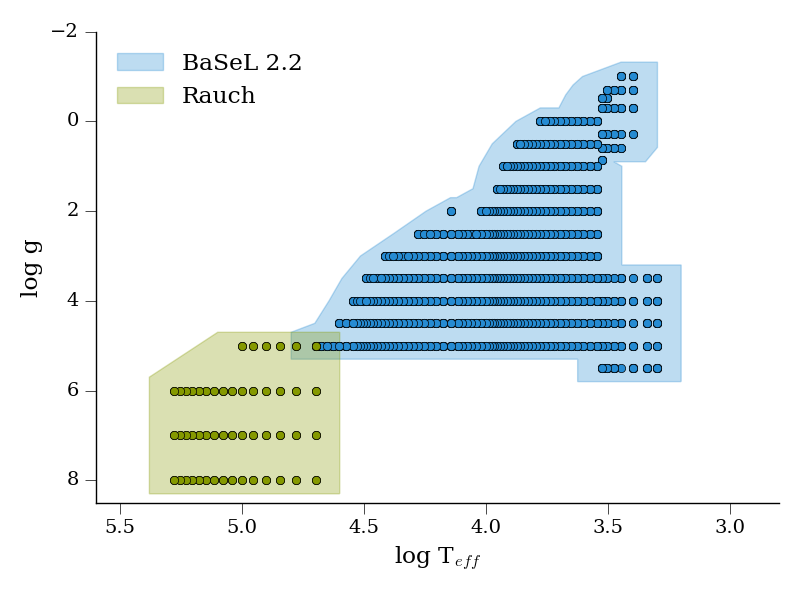
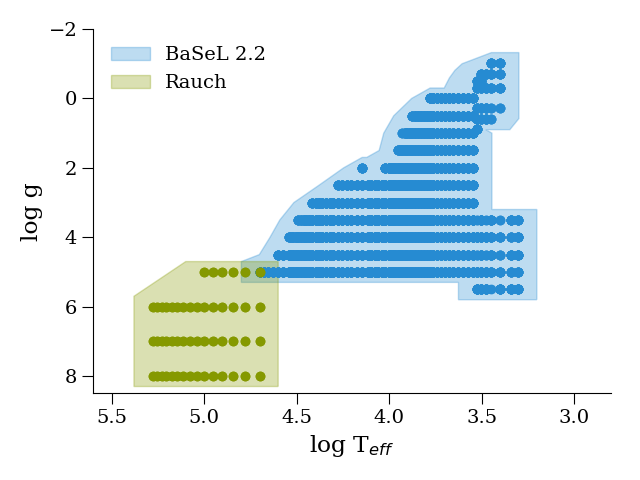
Updated example

diff --git a/docs/example.py b/docs/example.py
@@ -6,16 +6,18 @@ setup_mpl.theme()
 setup_mpl.solarized_colors()
 
 lib = pystellibs.BaSeL() + pystellibs.Rauch()
+# lib = pystellibs.BTSettl() + pystellibs.BaSeL() + pystellibs.Munari() + pystellibs.Rauch()
 
 for osl in lib._olist:
     l = plt.plot(osl.logT, osl.logg, 'o')[0]
     osl.plot_boundary(color=l.get_color(), dlogT=0.1, dlogg=0.3, alpha=0.3,
                       label=osl.name)
+    # l.set_visible(False)
 
 plt.xlim(5.6, 2.8)
 plt.ylim(8.5, -2)
 figrc.hide_axis('top right'.split())
-plt.xlabel('log T$_{eff}$')
+plt.xlabel(r'log T$_{\rm eff}$')
 plt.ylabel('log g')
 plt.tight_layout()
 
